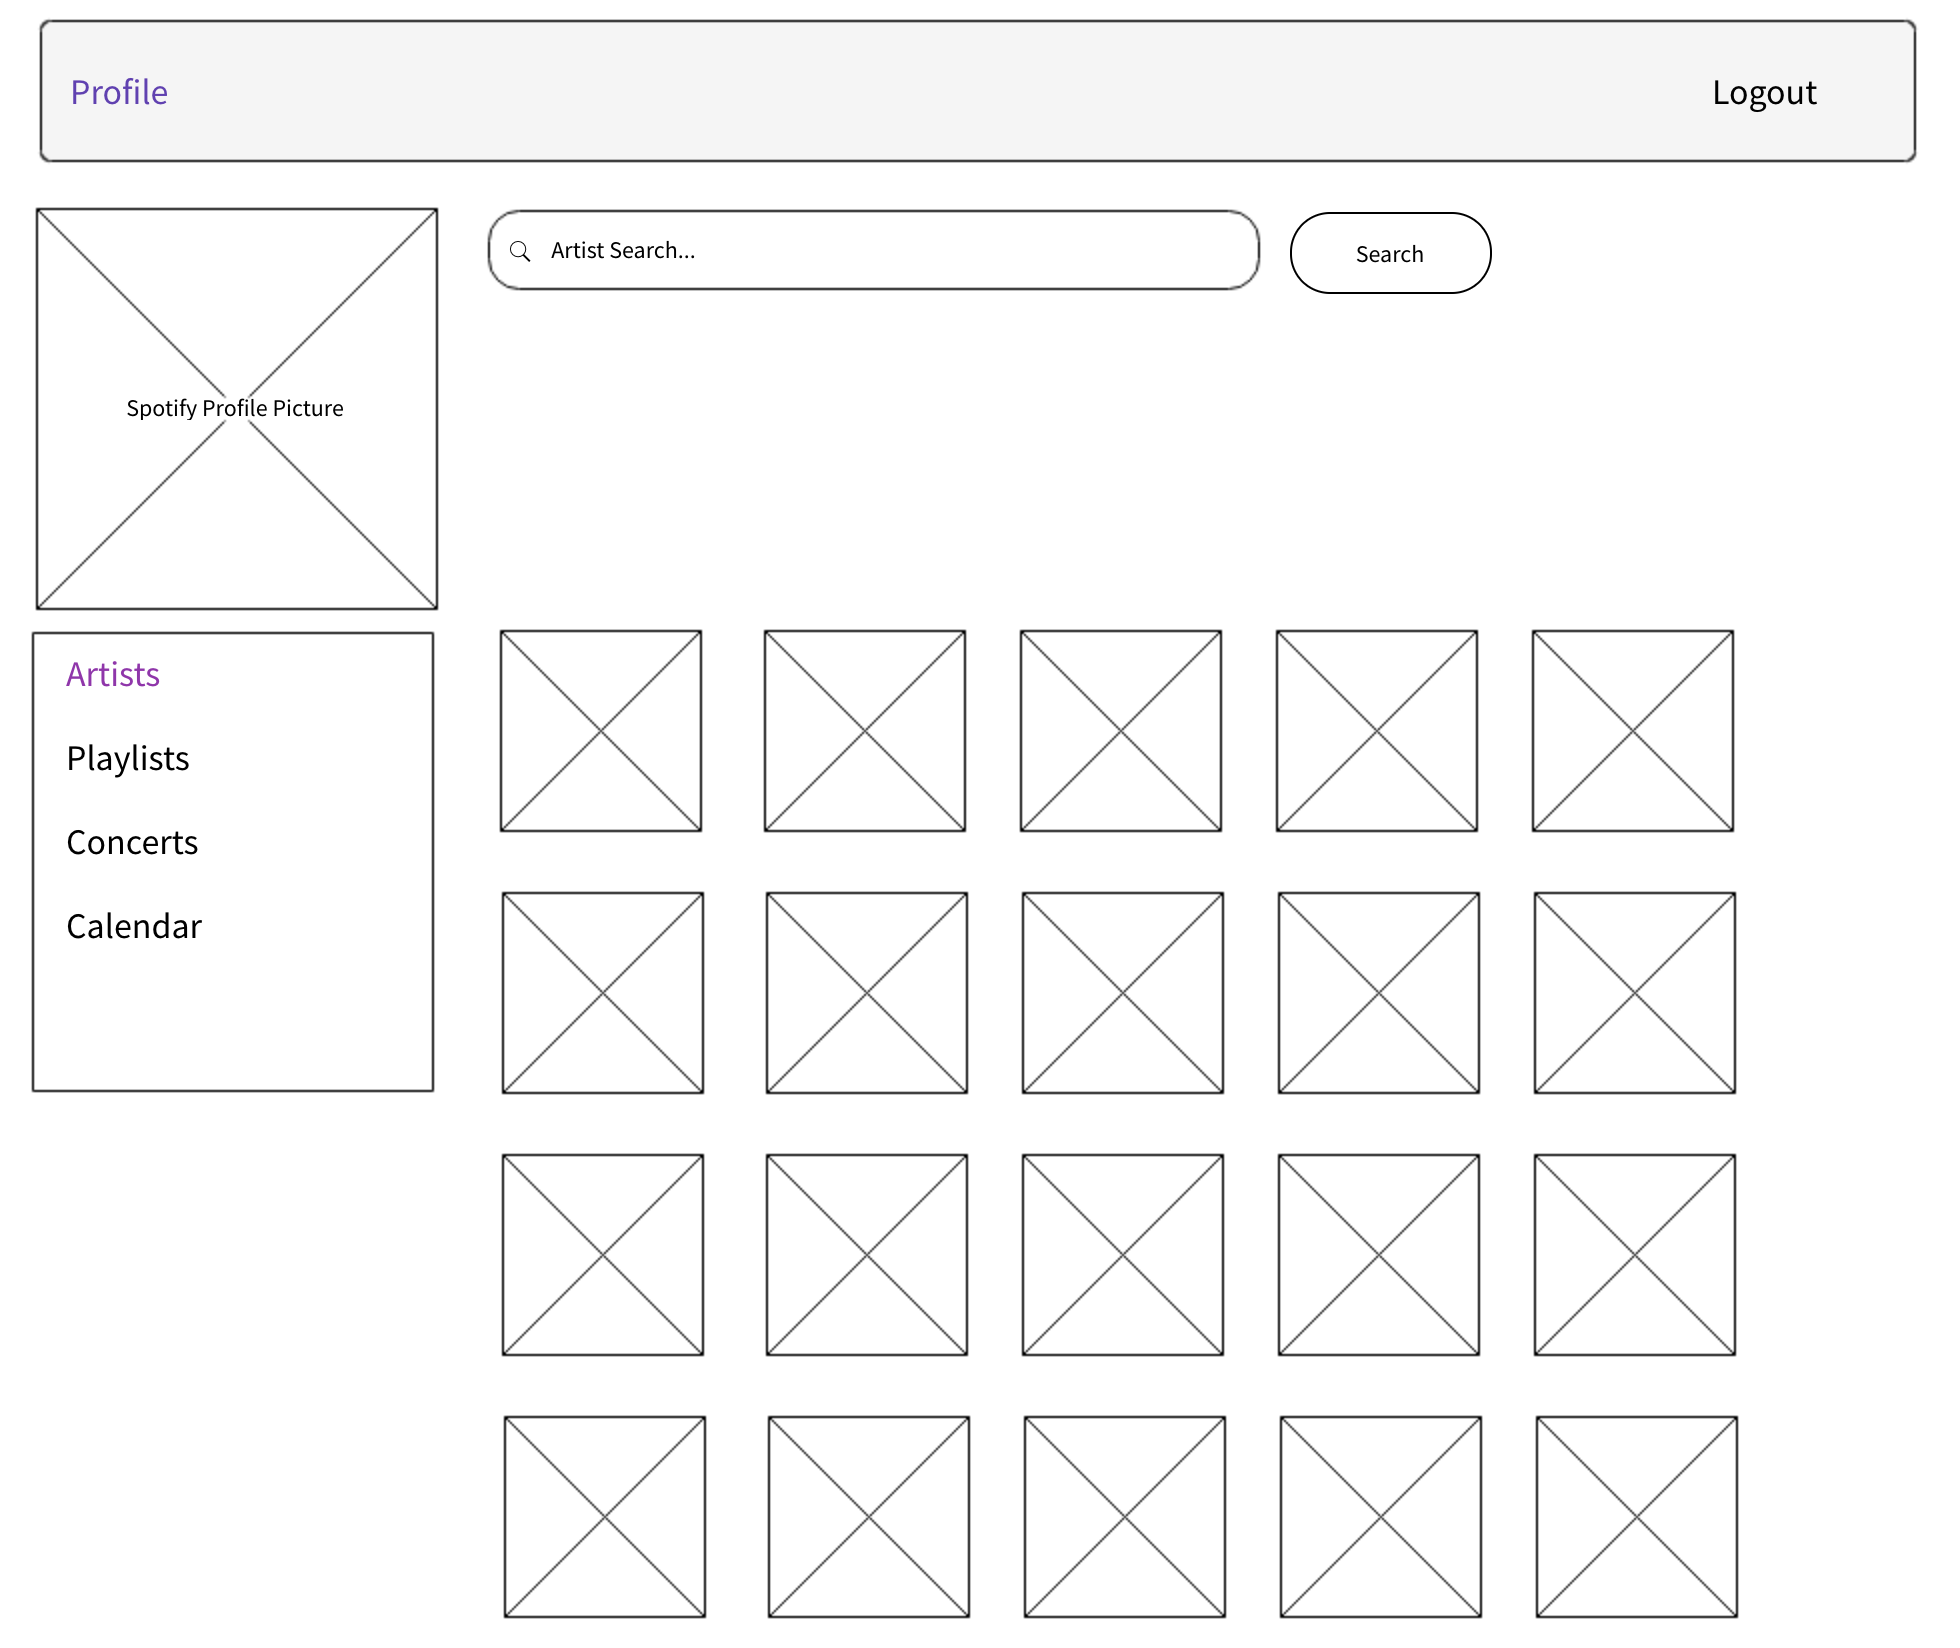
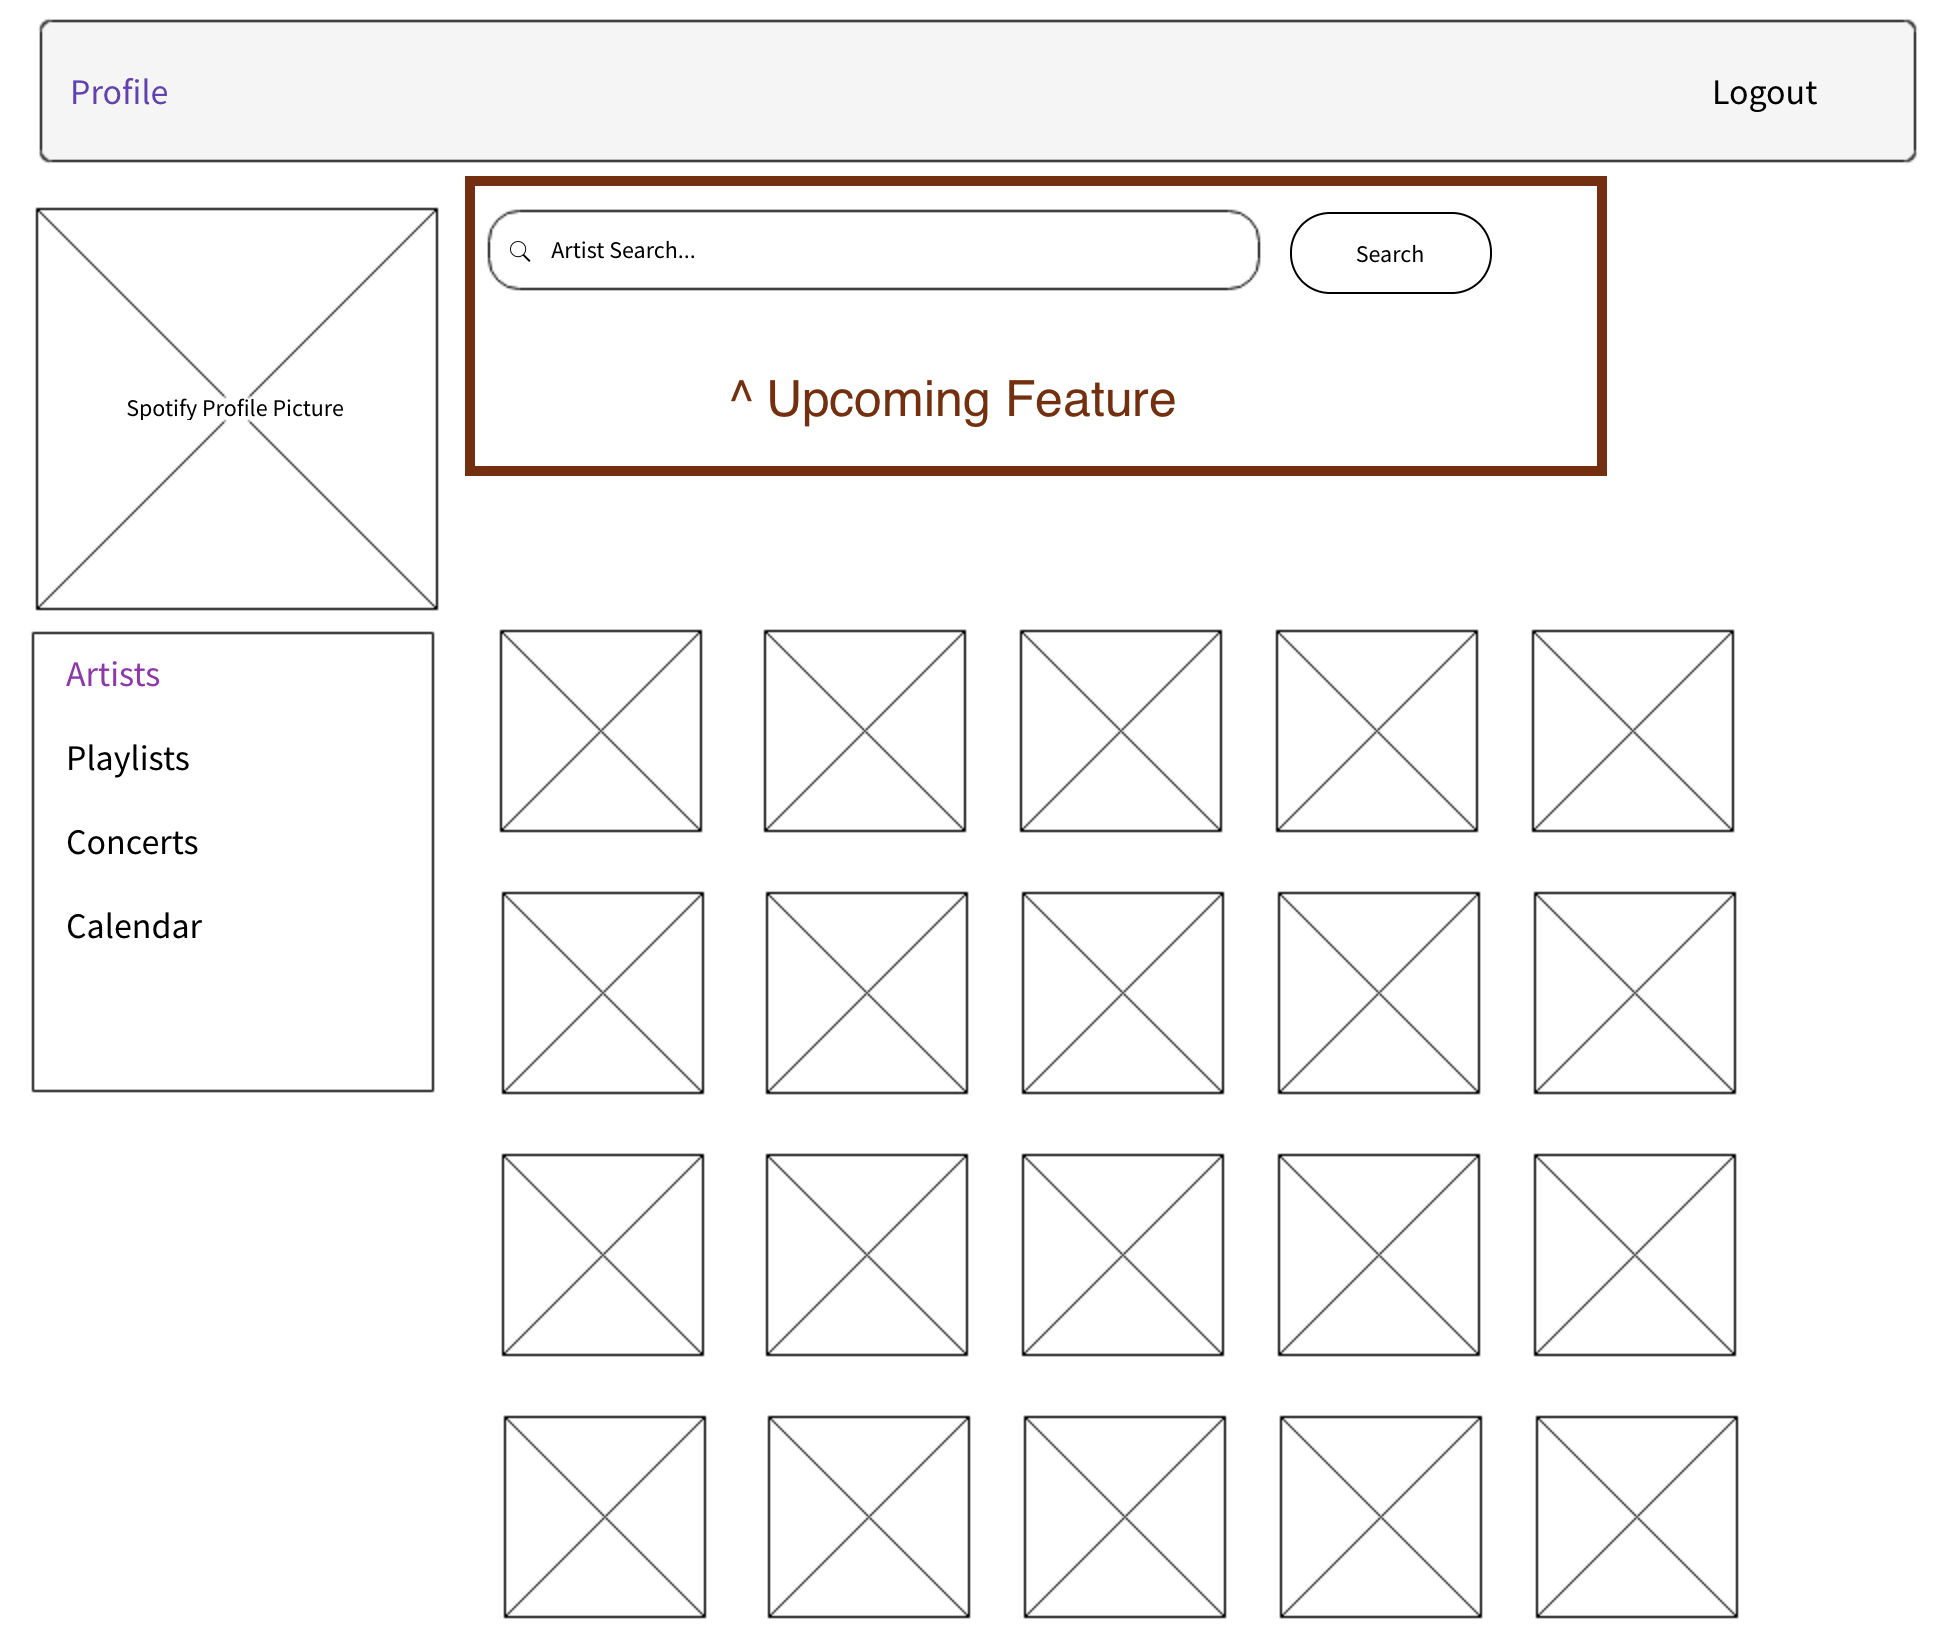
Updated README

Changed region(s): [[0.2179, 0.0928, 0.8403, 0.2785], [0.249, 0.2166, 0.8092, 0.3095]]

diff --git a/README.md b/README.md
@@ -1,10 +1,12 @@
 <h1 style="text-align: center;"> —---— SHOWDOWN —---— </h1>
 
-The idea for this app came to me when I realized that my “Spotify Artists” did not include artists appearing only in one of my playlists (meaning A: I was not following the artist, and B: I hadn’t “saved” any of their songs). Spotify, although brilliant in many ways, does not offer the user the ability to view all upcoming concerts of all said user's artists in one place (the user has to instead already know what specific Artist's concerts they wish to look up).
+The idea for this app came to me when I realized that my “Spotify Artists” did not include artists appearing only in one of my playlists (Spotify generates a users Artists list based on whether the user A- has saved a song from the artist, or B- is following the artist)
+
+Although brilliant in many ways, Spotify also does not offer the user the ability to view all upcoming concerts of all said user's artists in one place (the user has to instead already know what specific Artist's concerts they wish to look up).
 
 #### Enter ShowDown. ####
 
-An app where users are able to see all their favorite artists’ upcoming live events in one place. Only condition for artist's shows to be tracked: the artist must be included in a user playlist. The reasoning behind this constraint is to motivate users to create their own unique playlists.
+An app where users are able to see all their favorite artists’ upcoming live events (provided by Songkick) in one place. Only condition for artist's shows to be tracked: the artist must be included in a user's Spotify playlist. The reasoning behind this constraint is to motivate users to create their own unique playlists.
 
 The point of the application is twofold:
 - Spreading live love
@@ -12,46 +14,54 @@ The point of the application is twofold:
 
 ## Users will be able to: ##
 - Login to their Spotify account (if not, will be prompted to register).
-- Create, View, Update and Delete their playlists.
-- Search for artists and tracks to add to a playlist.
+- Add events to their calendar.
+- Update events in their calendar ('going', 'maybe', 'not going').
 - View all their artists.
 - View an artist’s upcoming concerts, if any.
-- View a “calendar” of upcoming concerts.
-- View a link to venue/purchase tickets.
 
 ## User Stories: ##
 - User logs in through their Spotify account.
 - User is redirected to ShowDown profile page.
-- User will be able to see all artists tracked for concerts (i.e. any artist included in a user’s playlist).
-- For an artist to be tracked, there must be at least ONE track of that artist included in ONE user’s playlists
+- User has access to their Artists, Playlists, potential Events, and Calendar.
+	- Artists will be compiled from playlists (for an artist to be tracked, there must be at least ONE track of that artist included in ONE of the user’s playlists)
+	- Playlists will be user's Spotify playlists.
+	- Potential Events will be compiled from artists.
+	- Calendar will contain all events user is contemplating attending.
 
 ### Example 1: ###
-- User wishes to see when Artist A will be playing next
-- User searches their artists
-- User finds Artist A, clicks on Artist A
-- User views Artist A’s upcoming concerts (date, venue, link to purchase tickets, [Add to Calendar])
-- User may choose to add a concert to their calendar by clicking “Add to Calendar”
+- User wishes to see when Artist A will be playing next.
+- User searches their artists.
+- User finds Artist A, clicks on Artist A.
+- User is redirected to Artist A’s upcoming concerts in SongKick.
 
 ### Example2: ###
-- User wishes to see when Artist B will be playing next
-- User searches their artists
-- Oops! Artist not found (meaning artist was not found in any playlists)
-- User goes to their playlists
-- User creates/edits a playlist, adds song(s) by Artist B
-- Artist B is now included in user's artists
+- User wishes to see all of their compiled upcoming Events.
+- User goes to Events, ShowDown scans their Playlists.
+- Chronologically ascending list of Events appear.
+- User may choose to add a concert to their calendar by clicking “Add to Calendar.”
+
 
 <h2 style="text-align: center;"> WIREFRAMES </h2>
 
-<p style="text-align: center;"><img src="./wireframes/ShowDown.png" alt="ShowDown"></p>
-<p style="text-align: center;"><img src="./wireframes/Spotify_Login.png" alt="Spotify_Login"></p>
+
+<p style="text-align: center; width: 30%"><img src="./wireframes/ShowDown.png" alt="ShowDown"></p>
+<p style="text-align: center; width: 60%;"><img src="./wireframes/Spotify_Login.png" alt="Spotify_Login"></p>
 <p style="text-align: center;"><img src="./wireframes/User_Profile_Artists.png" alt="User_Profile_Artists"></p>
 <p style="text-align: center;"><img src="./wireframes/User_Profile_Playlists.png" alt="User_Profile_Playlists"></p>
-<p style="text-align: center;"><img src="./wireframes/User_Profile_Playlist_New.png" alt="User_Profile_Playlist_New"></p>
-<p style="text-align: center;"><img src="./wireframes/User_Profile_Playlist_Edit.png" alt="User_Profile_Playlist_Edit"></p>
-<p style="text-align: center;"><img src="./wireframes/User_Profile_Playlist_Delete.png" alt="User_Profile_Playlist_Delete"></p>
 <p style="text-align: center;"><img src="./wireframes/User_Profile_Concerts.png" alt="User_Profile_Concerts"></p>
 <p style="text-align: center;"><img src="./wireframes/User_Profile_Calendar.png" alt="User_Profile_Calendar"></p>
 
 ### Upcoming Features: ###
-- Recommend concerts of artists similar to those in playlists
-- View details of concert/venue
+- Full Spotify functionality (user will be able to Create, Edit, Delete their Spotify playlists).
+- Optional concerts recommendations of artists similar to those in playlists.
+- Filter functionality for events based on city.
+- View details of concert/venue within ShowDown (no redirect).
+
+<h2 style="text-align: center;"> Upcoming Features Wireframes </h2>
+
+<p style="text-align: center;"><img src="./wireframes/User_Profile_Playlist_New.png" alt="User_Profile_Playlist_New"></p>
+<p style="text-align: center;"><img src="./wireframes/User_Profile_Playlist_Edit.png" alt="User_Profile_Playlist_Edit"></p>
+<p style="text-align: center;"><img src="./wireframes/User_Profile_Playlist_Delete.png" alt="User_Profile_Playlist_Delete"></p>
+
+
+
